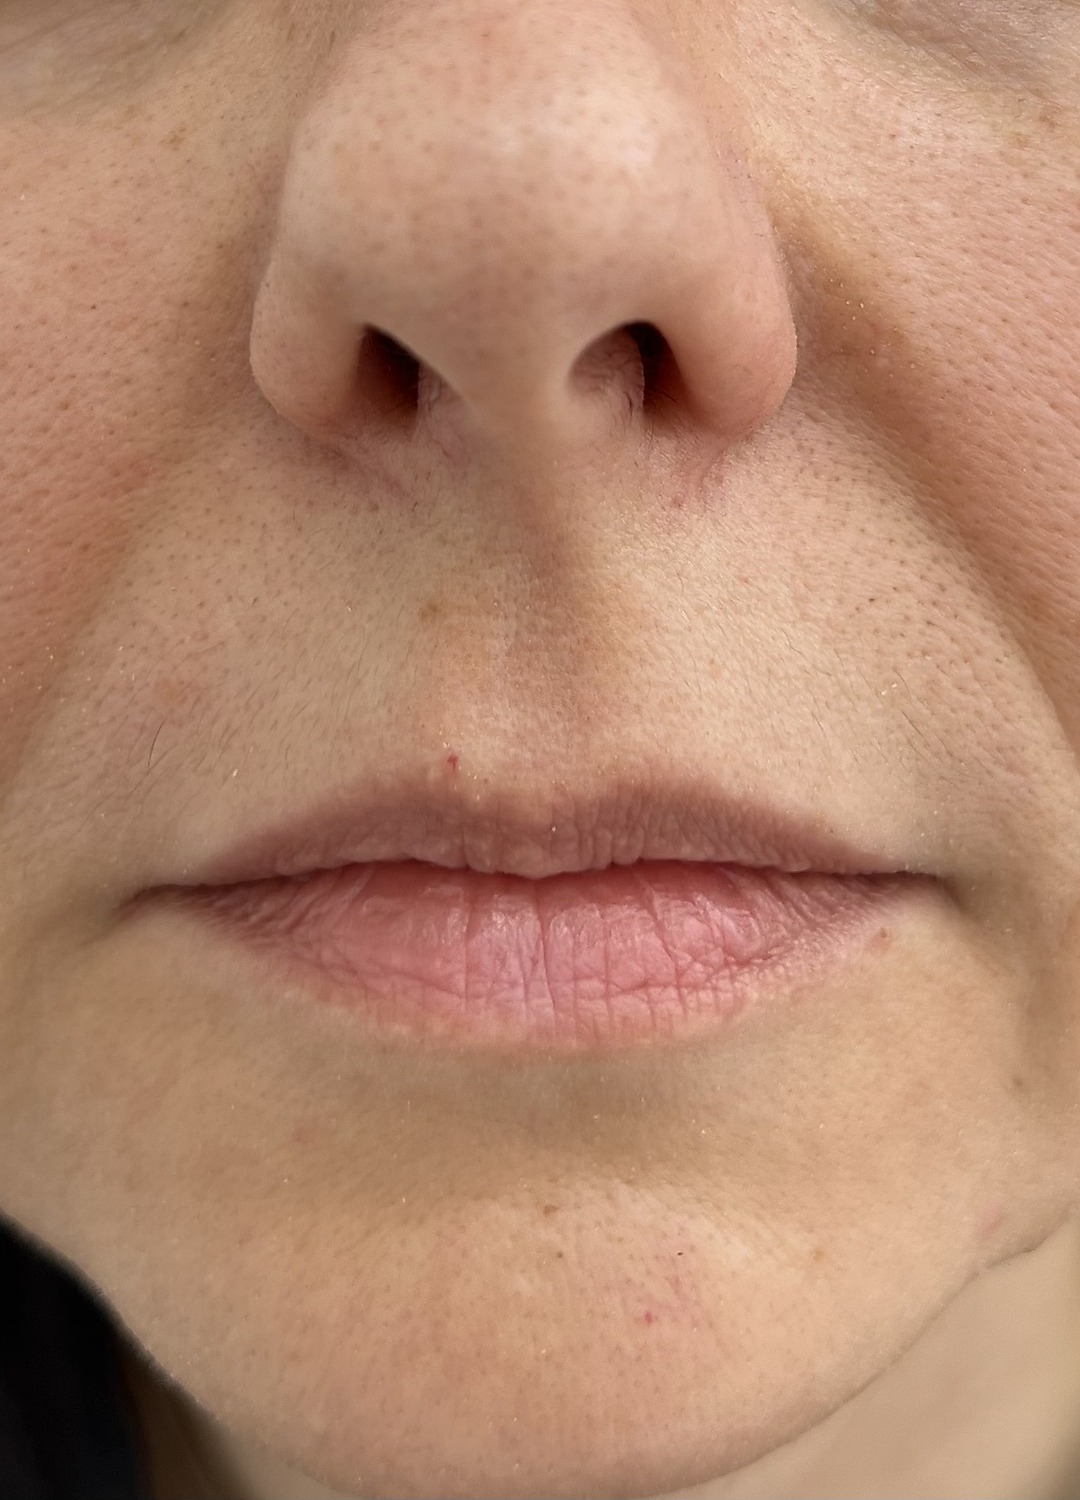
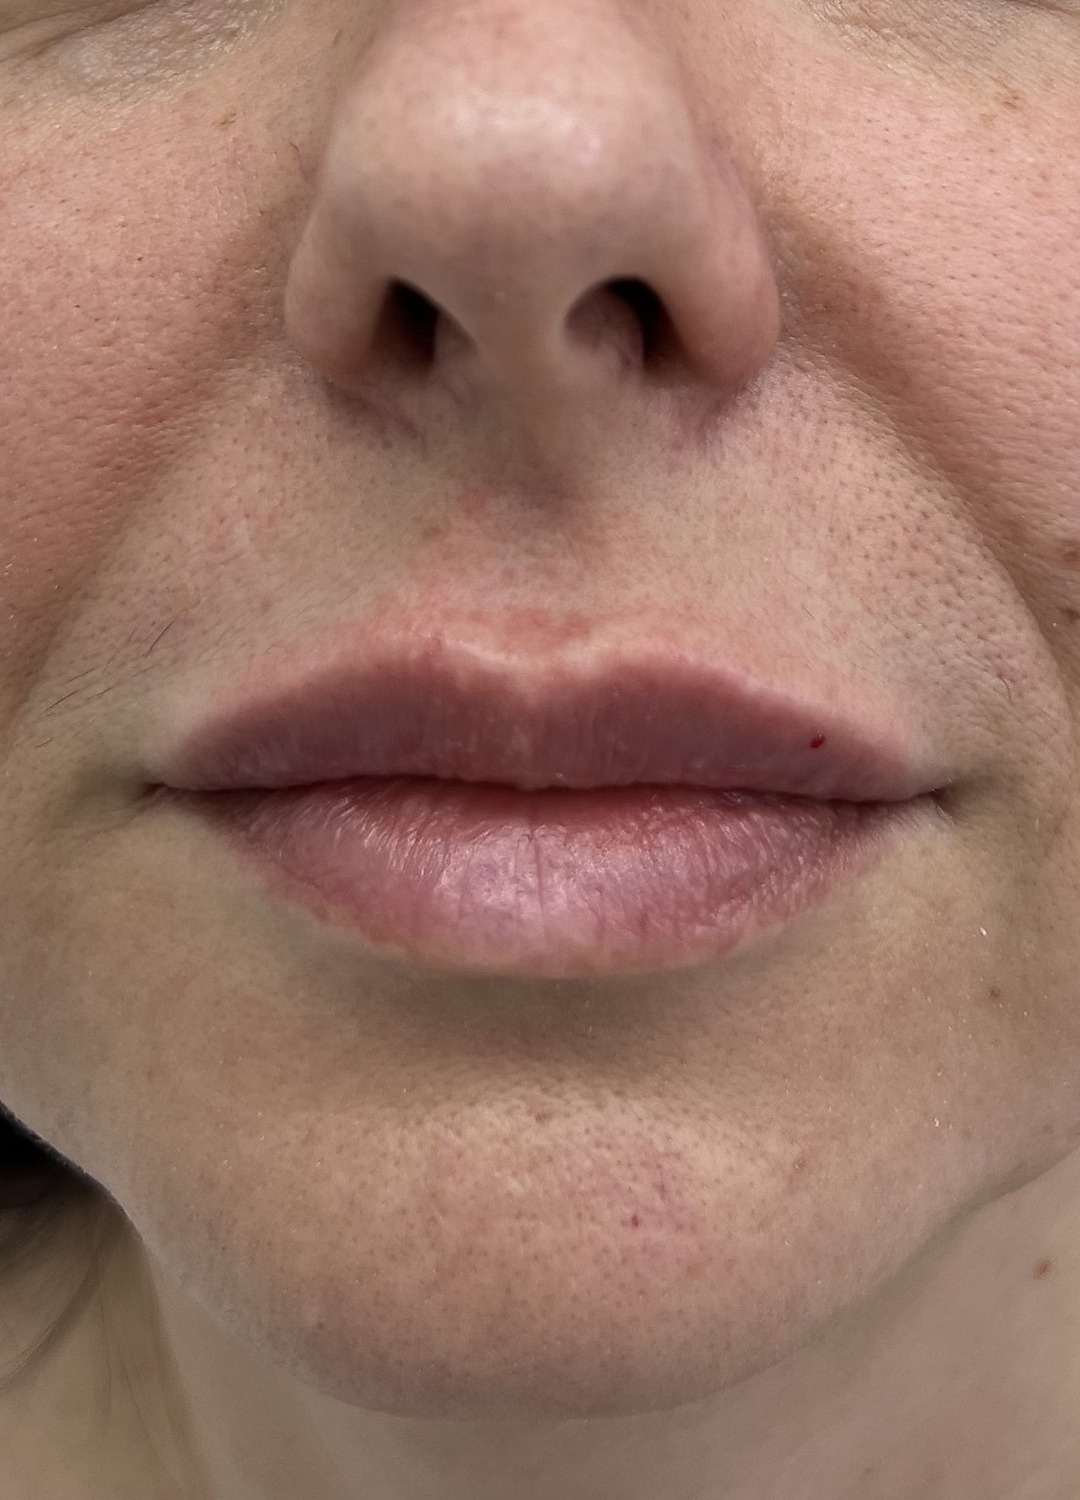
Правки: імена лікарів + before/after — акне і КП губ перевернуто, новий IMG_3875
1. Імена лікарів — уніфіковано формат "Прізвище Ім'я По батькові"
   (клієнт: "у всіх з прізвища давайте"):
   - "Ірина Миколаївна Івко" → "Івко Ірина Миколаївна"
   - "Анастасія Олександрівна Умрихина" → "Умрихина Анастасія Олександрівна"
   Оновлено скрізь: doctor__name, alt-атрибути, JSON-LD Physician.
   (Турчіна, Островерха, Зла, Біленко вже мали правильний формат.)

2. Before/After — виправлено переставлені пари:
   - Кейс 3 (Лікування акне): before ↔ after (клієнт "До це з прищами")
   - Кейс 5 (Контурна пластика губ): before ↔ after (клієнт "Тут теж навпаки")

3. Новий IMG_3875.HEIC → ba-5-after.jpg (Кейс 5 "Після" КП губ).

⚠ Ще потрібно: нове фото "До" для Кейсу 4 (IPL спина). Наразі там
згенеровано desaturated варіант — клієнт скаже неправильно.

diff --git a/index.html b/index.html
@@ -112,12 +112,12 @@
     "employee": [
       {
         "@type": "Physician",
-        "name": "Ірина Миколаївна Івко",
+        "name": "Івко Ірина Миколаївна",
         "jobTitle": "Засновниця та головний лікар",
         "medicalSpecialty": ["Dermatology", "DermatologicSurgery", "Oncology", "Trichology"],
         "memberOf": ["УАЛДВК", "УАДВ", "UHRS", "EHRS"]
       },
-      { "@type": "Physician", "name": "Анастасія Олександрівна Умрихина", "medicalSpecialty": ["Dermatology", "Trichology", "Cosmetology"] },
+      { "@type": "Physician", "name": "Умрихина Анастасія Олександрівна", "medicalSpecialty": ["Dermatology", "Trichology", "Cosmetology"] },
       { "@type": "Physician", "name": "Турчіна Катерина Володимирівна", "medicalSpecialty": ["Cosmetology"] },
       { "@type": "Physician", "name": "Островерха Дарʼя Володимирівна", "medicalSpecialty": ["Dermatology", "Trichology"] },
       { "@type": "Physician", "name": "Зла Наталія Михайлівна", "medicalSpecialty": ["Dermatology", "Trichology", "Cosmetology"] }
@@ -744,10 +744,10 @@
         <div class="doctors">
           <article class="doctor glass">
             <div class="doctor__photo" aria-hidden="true">
-              <img src="assets/images/doctor-portrait.jpg" alt="Ірина Миколаївна Івко" />
+              <img src="assets/images/doctor-portrait.jpg" alt="Івко Ірина Миколаївна" />
             </div>
             <div class="doctor__body">
-              <h3 class="doctor__name">Ірина Миколаївна Івко</h3>
+              <h3 class="doctor__name">Івко Ірина Миколаївна</h3>
               <p class="doctor__role">Засновниця та головний лікар Expert Clinic</p>
               <p class="doctor__desc">
                 <b>Лікар-дерматовенеролог вищої категорії, онколог, дерматохірург,
@@ -766,10 +766,10 @@
 
           <article class="doctor glass">
             <div class="doctor__photo" aria-hidden="true">
-              <img src="assets/images/doctor-anastasia.jpg" alt="Анастасія Олександрівна Умрихина" />
+              <img src="assets/images/doctor-anastasia.jpg" alt="Умрихина Анастасія Олександрівна" />
             </div>
             <div class="doctor__body">
-              <h3 class="doctor__name">Анастасія Олександрівна Умрихина</h3>
+              <h3 class="doctor__name">Умрихина Анастасія Олександрівна</h3>
               <p class="doctor__role">Лікар-дерматовенеролог, дерматохірург, трихолог, косметолог</p>
               <p class="doctor__desc">
                 Комплексна діагностика й лікування захворювань шкіри, волосся та
